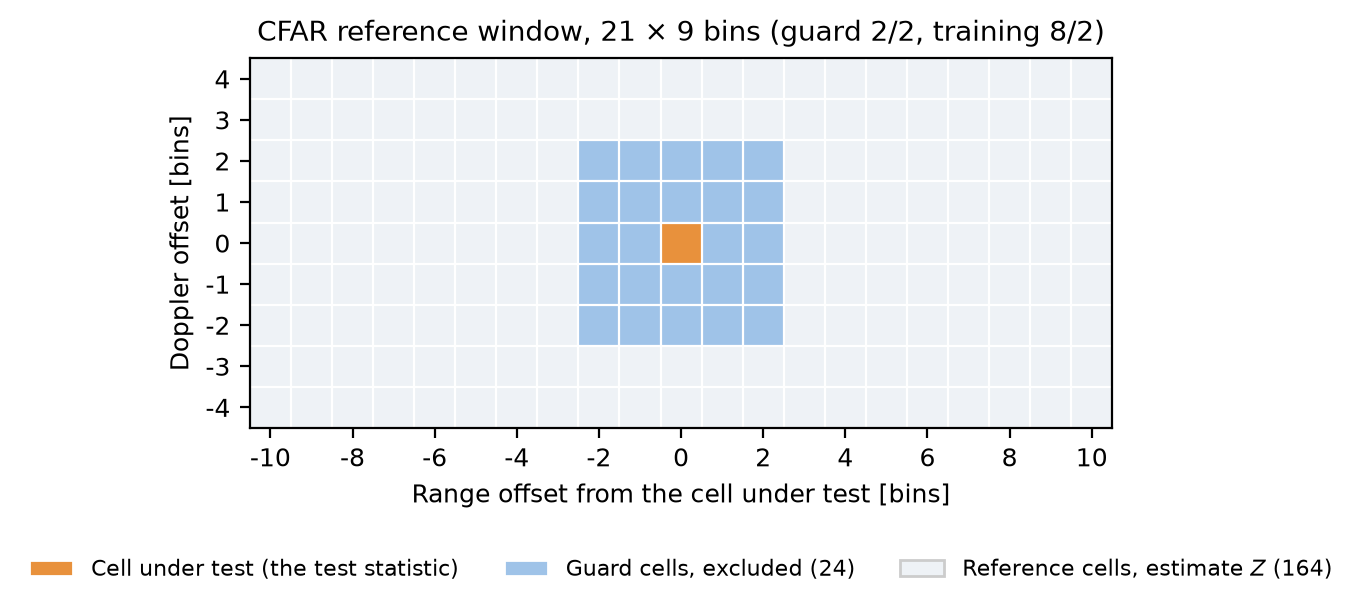
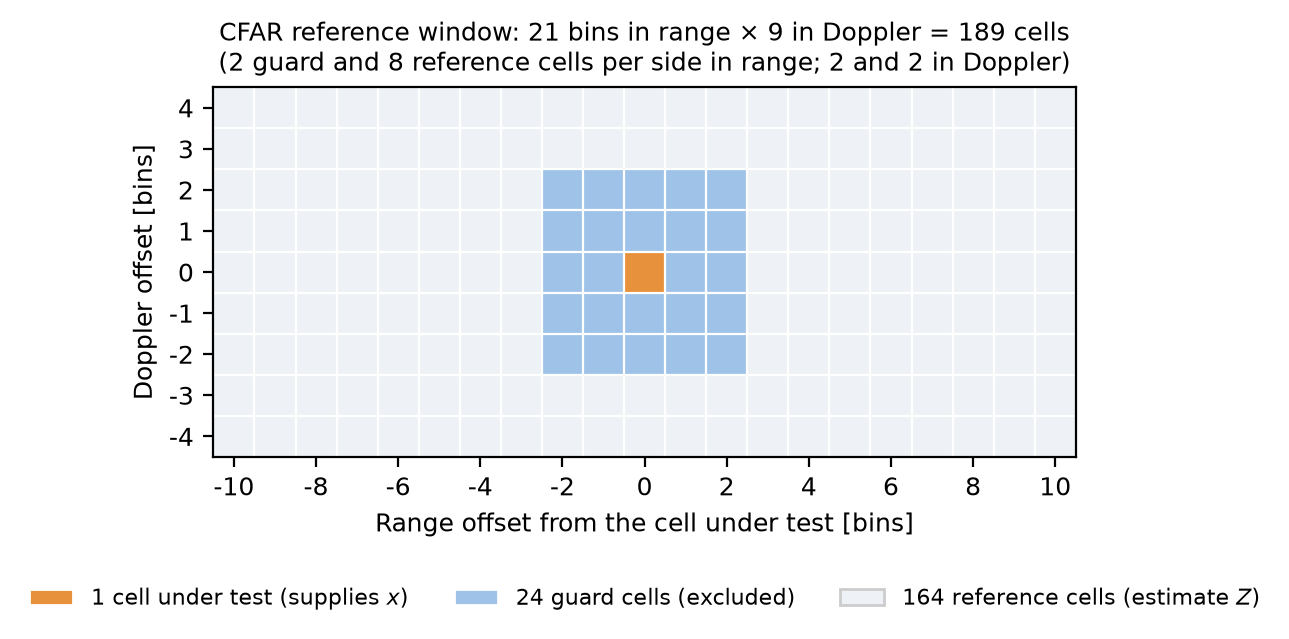
report: precision and hedging fixes in Section 2.3
Eight targeted edits. No numerical value, equation or figure data
changed.

2.3.1 -- x defined as measured RD-cell power, the squared magnitude of
the complex sample and the output of a square-law detector, stated to be
a power rather than an amplitude. The exponential-background threshold
is now derived from Pr(x > T | H0) = exp(-T/sigma^2) so the formula is
explicitly tied to power units.

2.3.2 -- added a paragraph stating that the constant false alarm rate
property holds under the assumed background model (reference cells iid,
target-free, sharing the statistics of the cell under test), and that
clutter edges and masking break those assumptions so the achieved rate
can depart from the design value. Links this to the report's use of
measured rather than design Pfa.

Figure 2.4 -- caption and figure now state the geometry plainly: 189
cells total, split into 1 cell under test, 24 guard cells and 164
reference cells, with the per-side counts spelled out instead of the
"guard 2/2, training 8/2" shorthand. Legend entries reworded to match.

2.3.3 -- CA-CFAR optimality now scoped to a homogeneous exponential
background with target-free reference cells, with the reason (the sample
mean is then the most efficient estimator) and a note that the claim
does not carry outside those conditions.

2.3.4 -- corrected the claim that no analytical threshold relationship
exists for GO, SO and OS. They exist but are more involved, and the
[…]

diff --git a/report/chapters/ch2_background.tex b/report/chapters/ch2_background.tex
@@ -143,8 +143,11 @@ both detectors.}
 
 \subsection{The detection problem}
 
-Detection is a binary hypothesis test applied to every cell of the RD map. For a cell with observed
-power $x$, the two hypotheses are
+Detection is a binary hypothesis test applied to every cell of the RD map. Throughout this report
+$x$ denotes the \emph{measured power} in an RD cell, that is the squared magnitude of the complex
+range--Doppler sample, $x = |X|^2$. This is the output of a square-law detector, and it is a power
+quantity rather than an amplitude; every threshold expression below is written in those units. For
+a cell with measured power $x$, the two hypotheses are
 \begin{align}
 H_0 &: \text{background only (noise, clutter, interference)}, \\
 H_1 &: \text{background plus a target return}.
@@ -155,8 +158,10 @@ of false alarm $\Pfa$ at an acceptable value, and maximise the probability of de
 subject to that constraint. This is the reason $\Pd$ at a fixed $\Pfa$ is the standard metric in
 the field, and it is the metric this report uses.
 
-Fixing $\Pfa$ is straightforward if the background power is known: for square-law detection in
-exponential noise of mean power $\sigma^2$, the threshold is $T = -\sigma^2 \ln \Pfa$. The
+Fixing $\Pfa$ is straightforward if the background power is known. Under the standard single-look
+model the background power $x$ is exponentially distributed with mean $\sigma^2$, so
+$\Pr(x > T \mid H_0) = \exp(-T/\sigma^2)$ and the threshold that achieves a chosen $\Pfa$ is
+$T = -\sigma^2 \ln \Pfa$, again in units of power. The
 difficulty is that $\sigma^2$ is not known. It varies with temperature, with the terrain being
 illuminated, with weather, and with interference from other radars. A fixed threshold set for one
 condition produces either a flood of false alarms or no detections at all in another.
@@ -178,6 +183,17 @@ threshold scales with the estimated background, a uniform change in received pow
 $Z$ together and leaves the decision unchanged. This is the constant false alarm rate property, and
 it is what allows a single detector to operate across widely varying conditions.
 
+It is worth being precise about what that property guarantees. The rate is held constant
+\emph{under the assumed background model}: the reference cells are taken to be independent,
+identically distributed and free of target energy, and to share the statistics of the cell under
+test. When those assumptions hold, the achieved false-alarm rate is close to the design value
+regardless of the absolute power level. When they do not hold --- at a clutter edge, where the
+reference cells no longer share the statistics of the cell under test, or under target masking,
+where they are not target-free --- the achieved rate can depart from the design value in either
+direction. Section~\ref{sec:cfar_failures} describes both cases, and this departure is measured
+rather than assumed in Chapter~\ref{chp:detectors}, which is why operating points in this report
+are matched at the \emph{measured} rather than the design rate.
+
 The window has a specific structure, shown in Figure~\ref{fig:cfarwin}. Immediately around the cell
 under test is a ring of \emph{guard cells}, which are excluded from the estimate. They must be
 excluded: a target's own response spreads over several cells, so including them would let the
@@ -187,9 +203,14 @@ target inflate its own threshold and suppress its own detection. Beyond the guar
 \begin{figure}[h!]
 \centering
 \includegraphics[width=0.95\textwidth]{figures/Chapter2/ch2_fig4_cfar_window.png}
-\caption[CFAR reference window geometry]{The reference window used throughout this work. The cell
-under test provides the test statistic; the guard cells are excluded so that a target cannot raise
-its own threshold; the remaining reference cells form the background estimate $Z$. The window is
+\caption[CFAR reference window geometry]{The reference window used throughout this work. It spans
+21 bins in range by 9 in Doppler, so it covers 189 cells in total, divided into three roles:
+\textbf{1 cell under test}, which supplies the test statistic $x$; \textbf{24 guard cells}
+immediately surrounding it, excluded so that a target cannot raise its own threshold; and
+\textbf{164 reference cells}, which form the background estimate $Z$. The guard region is the
+$5 \times 5$ block at the centre, from which the cell under test itself is excluded. Counting
+outwards from the centre along each axis, range has 2 guard cells and then 8 reference cells on
+each side, and Doppler has 2 guard cells and then 2 reference cells on each side. The window is
 rectangular because the two axes of the RD map are not alike, as Chapter~\ref{chp:detectors}
 explains.}
 \label{fig:cfarwin}
@@ -208,9 +229,12 @@ noise, the multiplier that achieves a design false-alarm rate is available in cl
 \label{eq:alpha_ca}
 \end{equation}
 
-CA-CFAR is optimal, in the sense of maximising $\Pd$ at a given $\Pfa$, when the background really
-is homogeneous and the reference cells really are target-free~\cite{gandhi1988cfar}. It is also the
-cheapest variant, requiring only a sum.
+Under a specific and quite restrictive set of conditions --- a homogeneous exponential background,
+and reference cells that are genuinely free of target energy --- CA-CFAR is optimal in the sense of
+maximising $\Pd$ at a given $\Pfa$, because the sample mean is then the most efficient estimator of
+the background power~\cite{gandhi1988cfar}. Outside those conditions the optimality claim does not
+carry over, and the variants below exist precisely because real backgrounds often violate them.
+CA-CFAR is also the cheapest variant, requiring only a sum.
 
 \subsection{Greatest-of, smallest-of and order-statistic variants}
 
@@ -220,20 +244,26 @@ into $Z$. That single choice determines the variant's strengths and weaknesses.
 \begin{description}
 \itemsep3pt
 \item[GO-CFAR (greatest-of).] The reference cells are split into a leading and a lagging half, and
-$Z$ is the larger of the two means. Keeping the higher estimate suppresses the false-alarm burst
-that CA-CFAR suffers at a clutter edge, at the cost of masking targets more readily.
+$Z$ is the larger of the two means. Keeping the higher estimate limits the increase in false-alarm
+rate that CA-CFAR shows at a clutter edge, at the cost of masking targets more readily.
 \item[SO-CFAR (smallest-of).] The mirror image: $Z$ is the smaller of the two half-means. If an
 interfering target contaminates one half, the clean half is used, so closely spaced targets are
-resolved. At a clutter edge the threshold collapses and false alarms rise sharply.
+resolved. At a clutter edge the estimate is taken from the quieter side, the threshold is set too
+low, and the false-alarm rate can increase substantially.
 \item[OS-CFAR (order-statistic).] The reference cells are sorted and the $k$-th ranked value is
 taken as $Z$, typically with $k \approx 0.75N$. Interfering targets are high outliers and are
 excluded by the ranking, which makes the variant robust in multi-target scenes. The cost is a sort
 per cell and a small additional loss in homogeneous background.
 \end{description}
 
-For GO, SO and OS there is no equivalent of equation~\eqref{eq:alpha_ca} that holds under the
-conditions of this work, so their multipliers are obtained by Monte-Carlo calibration, as
-Chapter~\ref{chp:detectors} describes.
+Analytical threshold relationships exist for GO, SO and OS as well, but they are considerably more
+involved than equation~\eqref{eq:alpha_ca}: they depend on the split of the reference cells or on
+the distribution of an order statistic, and the published closed forms assume a one-dimensional
+window and independent reference cells. Neither assumption holds exactly for the
+two-dimensional window and correlated RD background used here. This work therefore obtains all four
+multipliers by Monte-Carlo calibration on noise-only data, so that every variant is calibrated
+under the same conditions in which it is evaluated. Chapter~\ref{chp:detectors} describes that
+procedure and reports the resulting values.
 
 \subsection{Known failure modes}
 \label{sec:cfar_failures}
@@ -252,27 +282,33 @@ step that is sharper than the window is wide.
 raises $Z$ and therefore raises the threshold at the very cell being tested. The stronger the
 interferer, the more effectively it hides its neighbour.
 
-Figure~\ref{fig:cfarfail} shows both, simulated on the same window geometry used in the rest of this
-work.
+Figure~\ref{fig:cfarfail} illustrates both mechanisms on a one-dimensional cut, using the same
+guard and reference counts per side as the window used in the rest of this work.
 
 \begin{figure}[h!]
 \centering
 \includegraphics[width=\textwidth]{figures/Chapter2/ch2_fig5_cfar_failure_modes.png}
-\caption[The two dominant CFAR failure modes]{Left: at a clutter edge the threshold lags the
-background step, missing a target before the edge and admitting a false alarm after it. Right: an
-interfering target inside the reference window raises the threshold at the cell being tested, and
-the weaker target is missed.}
+\caption[The two dominant CFAR failure modes]{\textbf{An illustrative simulation of the two
+classical failure mechanisms, not a measured benchmark result.} A one-dimensional cut through an
+exponential background is used, with the same guard and reference counts per side as the window of
+Figure~\ref{fig:cfarwin}, so that the mechanisms can be seen directly; the outcome for any single
+realisation depends on the random draw. Left: at a clutter edge the threshold lags the background
+step, missing a target before the edge and admitting a false alarm after it. Right: an interfering
+target inside the reference window raises the threshold at the cell being tested, and the weaker
+target is missed. Measured performance under these conditions is reported in
+Chapter~\ref{chp:synthetic}.}
 \label{fig:cfarfail}
 \end{figure}
 
 The conclusion Gandhi and Kassam reached is the starting point of this project: no single CFAR
-variant performs well across all backgrounds, and each variant repairs one failure mode while
-worsening another. GO controls clutter edges but masks more; SO resolves close targets but fails at
-edges. They suggested that an adaptive approach might be required when operating conditions change.
+variant performs well across all backgrounds, and each variant tends to repair one failure mode
+while worsening another. GO tends to handle clutter edges better than CA but may worsen masking;
+SO tends to help in multiple-target cases but can perform poorly at clutter transitions. They
+suggested that an adaptive approach might be required when operating conditions change.
 
 These failure modes also determine the design of the benchmark. A comparison evaluated only in
-homogeneous noise would test the one condition in which CA-CFAR is already optimal, and would say
-nothing about the conditions that motivate a learned detector. The conditions used in
+homogeneous noise would test the one condition under which CA-CFAR is already close to optimal, and
+would say nothing about the conditions that motivate a learned detector. The conditions used in
 Chapter~\ref{chp:synthetic} are chosen to span both.
 
 \subsection{CFAR loss}

diff --git a/scripts/make_ch2_figures.py b/scripts/make_ch2_figures.py
@@ -300,16 +300,18 @@ def fig_cfar_window():
     ax.set_yticklabels(range(-cd, cd + 1))
     ax.set_xlabel("Range offset from the cell under test [bins]")
     ax.set_ylabel("Doppler offset [bins]")
-    ax.set_title("CFAR reference window, %d $\\times$ %d bins (guard %d/%d, training %d/%d)"
-                 % (WIN_R, WIN_D, GUARD_R, GUARD_D, TRAIN_R, TRAIN_D))
+    ax.set_title("CFAR reference window: %d bins in range $\\times$ %d in Doppler = %d cells\n"
+                 "(%d guard and %d reference cells per side in range; %d and %d in Doppler)"
+                 % (WIN_R, WIN_D, WIN_R * WIN_D,
+                    GUARD_R, TRAIN_R, GUARD_D, TRAIN_D), fontsize=9)
 
     handles = [
         matplotlib.patches.Patch(facecolor="#e8913c", edgecolor="white",
-                                 label="Cell under test (the test statistic)"),
+                                 label="1 cell under test (supplies $x$)"),
         matplotlib.patches.Patch(facecolor="#9fc3e8", edgecolor="white",
-                                 label="Guard cells, excluded (%d)" % n_guard),
+                                 label="%d guard cells (excluded)" % n_guard),
         matplotlib.patches.Patch(facecolor="#eef2f6", edgecolor="#cccccc",
-                                 label="Reference cells, estimate $Z$ (%d)" % n_ref),
+                                 label="%d reference cells (estimate $Z$)" % n_ref),
     ]
     ax.legend(handles=handles, loc="upper center", bbox_to_anchor=(0.5, -0.30),
               ncol=3, frameon=False, fontsize=8)
